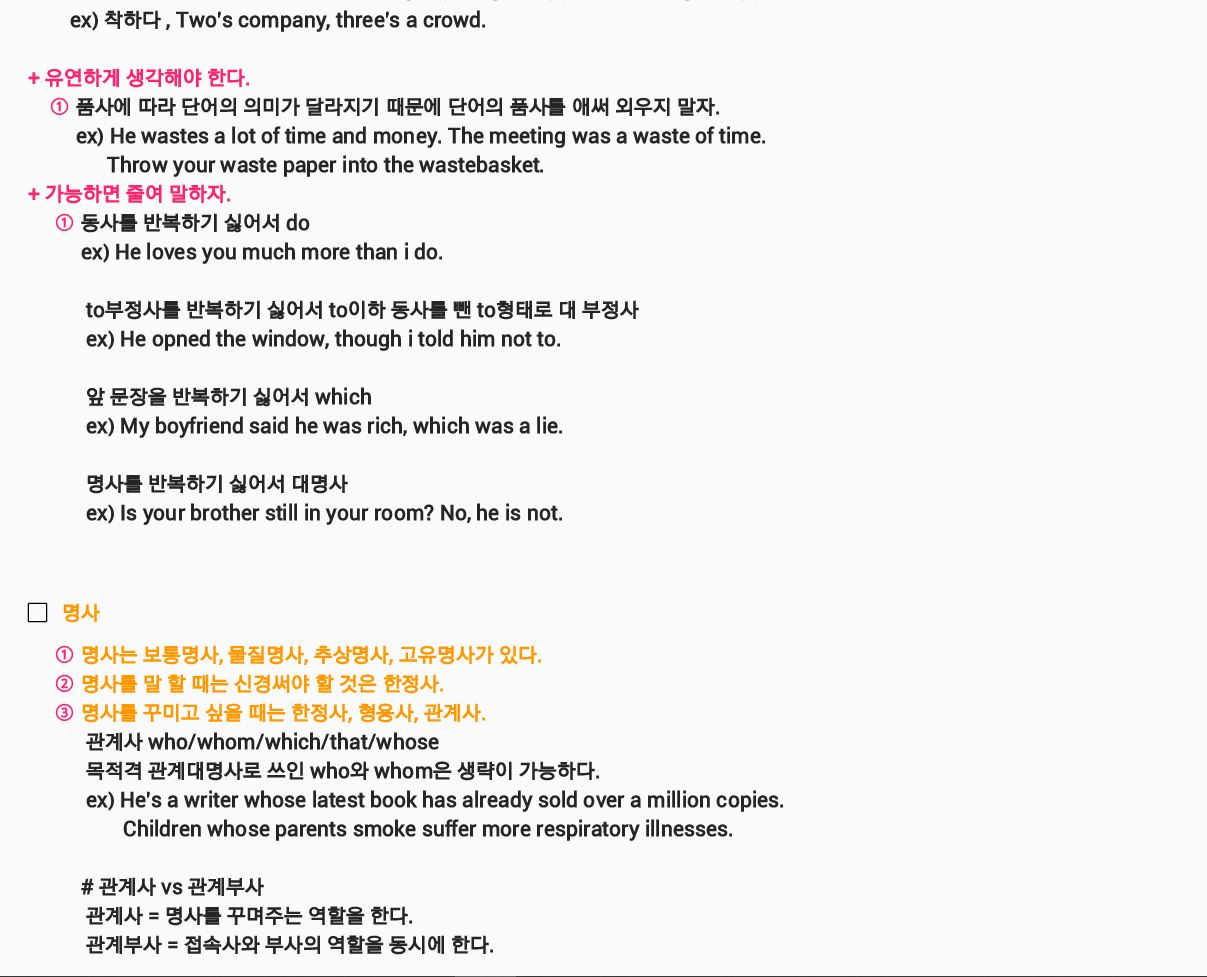
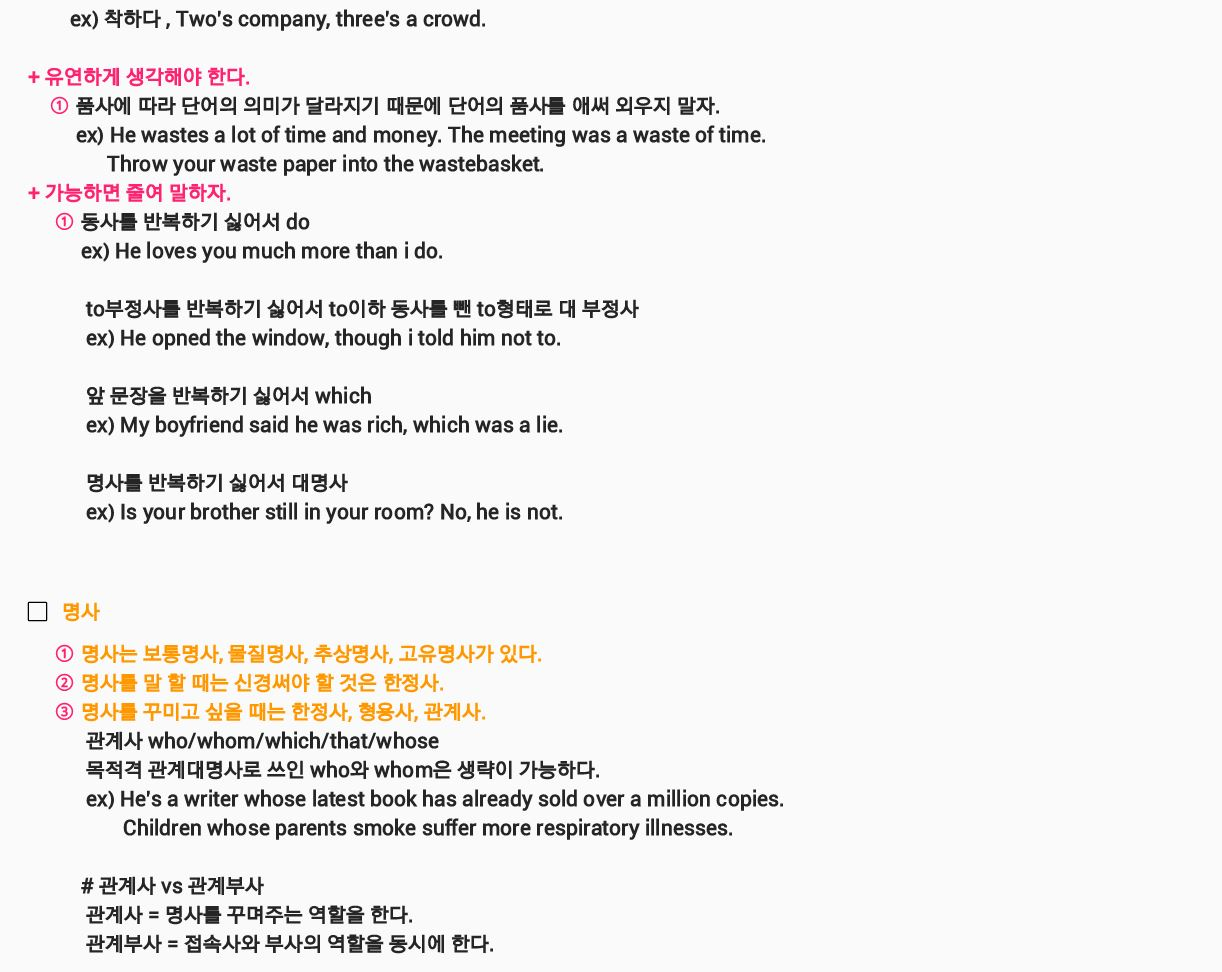
영문법 (1) 수정

diff --git a/_posts/2018-12-16-grammer.md b/_posts/2018-12-16-grammer.md
@@ -10,7 +10,7 @@ tag:
 ---
 ![1-1](https://user-images.githubusercontent.com/33630505/50051174-f3c07a80-0150-11e9-9d96-cac870661a0e.JPG)
 ![1-2](https://user-images.githubusercontent.com/33630505/50051175-f4591100-0150-11e9-8c9f-c1b640e9acef.JPG)
-![1-3](https://user-images.githubusercontent.com/33630505/50051176-f4591100-0150-11e9-8ea4-32bb05c06ec7.JPG)
+![1-3](https://user-images.githubusercontent.com/33630505/50051226-a8f33280-0151-11e9-98b2-f192330271be.JPG)
 ![2-1](https://user-images.githubusercontent.com/33630505/50051177-f4591100-0150-11e9-88b5-6628ba18496d.JPG)
 ![2-2](https://user-images.githubusercontent.com/33630505/50051178-f4f1a780-0150-11e9-9a43-a1f1da8a8aca.JPG)
 ![2-3](https://user-images.githubusercontent.com/33630505/50051179-f4f1a780-0150-11e9-96b3-77bee41c0704.JPG)
